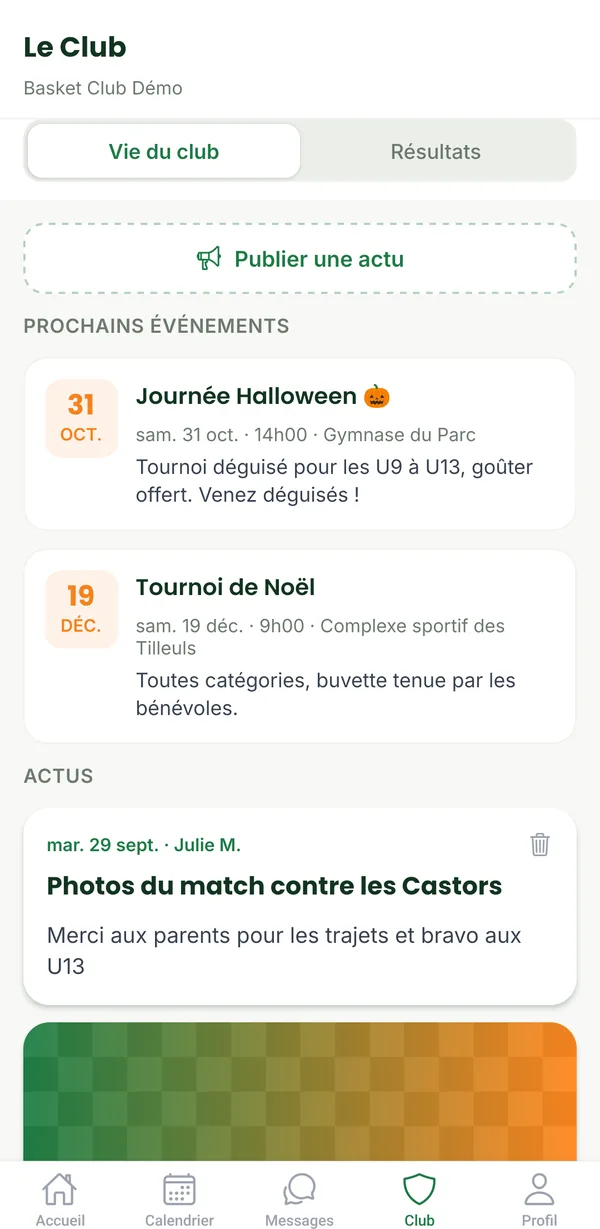
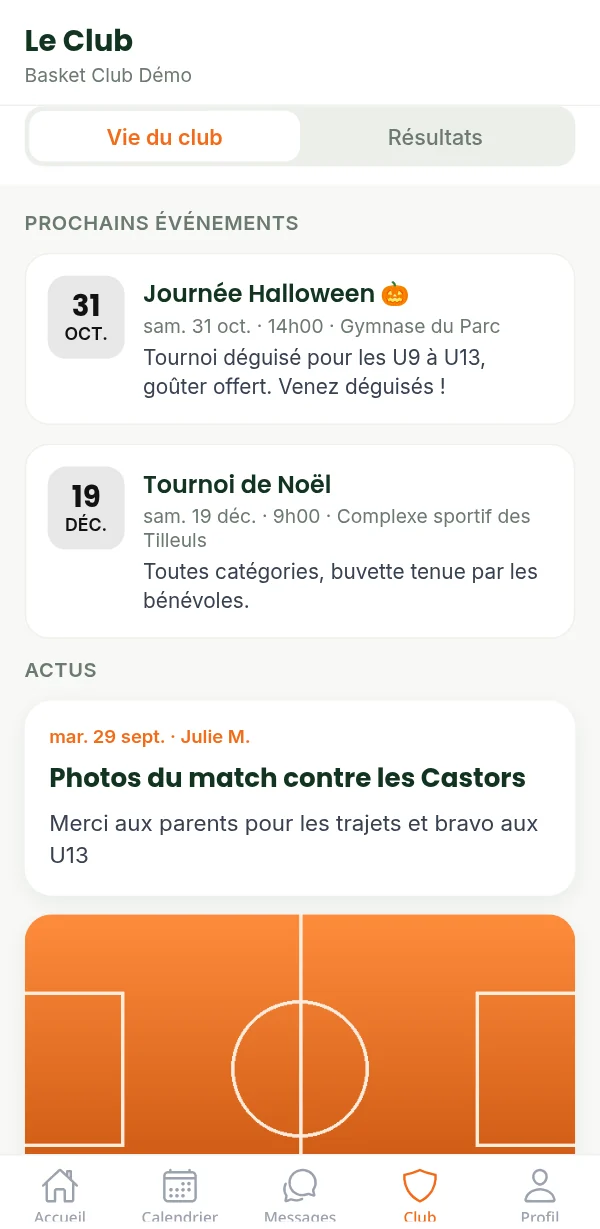
Charte orange basket : orange, noir, blanc et gris ; captures et aperçu refaits

diff --git a/index.html b/index.html
@@ -6,7 +6,7 @@
   <title>Basket&amp;cie — L'application des clubs de basket amateurs</title>
   <meta name="description" content="Convocations, présences, chat d'équipe, calendrier et actus du club dans une seule application. Gratuite pour les familles, à partir de 200 € par saison pour le club.">
   <link rel="canonical" href="https://basket-cie.fr/">
-  <meta name="theme-color" content="#1E7A44">
+  <meta name="theme-color" content="#F26B1D">
   <link rel="icon" href="assets/favicon.svg" type="image/svg+xml">
 
   <meta property="og:type" content="website">
@@ -15,7 +15,7 @@
   <meta property="og:title" content="Basket&amp;cie — L'application des clubs de basket amateurs">
   <meta property="og:description" content="Convocations en un tap, chat d'équipe, calendrier et actus du club. Gratuite pour les familles.">
   <meta property="og:url" content="https://basket-cie.fr/">
-  <meta property="og:image" content="https://basket-cie.fr/assets/og.jpg?v=2">
+  <meta property="og:image" content="https://basket-cie.fr/assets/og.jpg?v=3">
   <meta name="twitter:card" content="summary_large_image">
 
   <!-- Polices hébergées sur le site : aucune requête vers un service tiers. -->
@@ -56,20 +56,22 @@
 
   <style>
     :root {
-      --vert: #1E7A44;
-      --vert-fonce: #145C33;
-      --vert-nuit: #0E3D22;
-      --vert-clair: #E8F3EC;
-      --orange: #F5821F;
-      --orange-fonce: #C2610C;
-      --encre: #12341F;
-      --texte: #3B4A41;
-      --discret: #6B7A70;
-      --fond: #F7F8F5;
-      --bordure: #E3E7E0;
+      /* Charte Basket&cie : orange ballon, noir, blancs et gris. */
+      --orange: #F26B1D;
+      --orange-vif: #FF7A26;
+      --orange-fonce: #C4500C;
+      --orange-clair: #FFF1E7;
+      --noir: #111111;
+      --noir-doux: #1C1C1C;
+      --encre: #111111;
+      --texte: #3A3A3A;
+      --discret: #6E6E6E;
+      --fond: #FAFAF9;
+      --gris-clair: #F2F2F0;
+      --bordure: #E6E6E3;
       --blanc: #FFFFFF;
       --rayon: 20px;
-      --ombre: 0 1px 2px rgba(18, 52, 31, .06), 0 12px 32px -12px rgba(18, 52, 31, .18);
+      --ombre: 0 1px 2px rgba(17, 17, 17, .06), 0 12px 32px -12px rgba(17, 17, 17, .18);
       --largeur: 1160px;
     }
 
@@ -85,7 +87,7 @@
       -webkit-font-smoothing: antialiased;
     }
     img { max-width: 100%; display: block; }
-    a { color: var(--vert); }
+    a { color: var(--orange); }
     h1, h2, h3 { font-family: Poppins, Inter, sans-serif; color: var(--encre); line-height: 1.15; margin: 0; }
     h1 { font-size: clamp(2.3rem, 5.2vw, 3.7rem); font-weight: 800; letter-spacing: -0.012em; }
     h2 { font-size: clamp(1.9rem, 3.6vw, 2.7rem); font-weight: 800; letter-spacing: -0.01em; }
@@ -95,7 +97,7 @@
     .surtitre {
       display: inline-flex; align-items: center; gap: 8px;
       font-weight: 600; font-size: .85rem; letter-spacing: .08em; text-transform: uppercase;
-      color: var(--vert);
+      color: var(--orange);
     }
     .surtitre::before { content: ""; width: 18px; height: 2px; background: var(--orange); border-radius: 2px; }
     .section { padding: 104px 0; }
@@ -117,17 +119,18 @@
       transition: transform .15s ease, background-color .15s ease, box-shadow .15s ease;
     }
     .btn:hover { transform: translateY(-1px); }
-    .btn-orange { background: var(--orange); color: #fff; box-shadow: 0 8px 20px -8px rgba(245, 130, 31, .7); }
-    .btn-orange:hover { background: #E87410; }
+    .btn-orange { background: var(--orange); color: #fff; box-shadow: 0 8px 20px -8px rgba(242, 107, 29, .7); }
+    .btn-orange:hover { background: var(--orange-fonce); }
     .btn-contour { border-color: var(--bordure); color: var(--encre); background: var(--blanc); }
-    .btn-contour:hover { border-color: var(--vert); }
-    .btn-blanc { background: #fff; color: var(--vert-fonce); }
+    .btn-contour:hover { border-color: var(--orange); }
+    .btn-blanc { background: var(--noir); color: #fff; }
+    .btn-blanc:hover { background: var(--noir-doux); }
     .btn svg { width: 18px; height: 18px; flex: none; }
 
     /* --- En-tête ----------------------------------------------------------- */
     .entete {
       position: sticky; top: 0; z-index: 50;
-      background: rgba(247, 248, 245, .86);
+      background: rgba(250, 250, 249, .86);
       backdrop-filter: saturate(160%) blur(12px);
       -webkit-backdrop-filter: saturate(160%) blur(12px);
       border-bottom: 1px solid transparent;
@@ -140,7 +143,7 @@
     .logo b { color: var(--orange); font-weight: 800; }
     .nav { display: flex; align-items: center; gap: 32px; }
     .nav a:not(.btn) { color: var(--texte); text-decoration: none; font-weight: 500; font-size: .95rem; }
-    .nav a:not(.btn):hover { color: var(--vert); }
+    .nav a:not(.btn):hover { color: var(--orange); }
     .nav .btn { padding: 11px 18px; font-size: .92rem; }
     .menu-bouton { display: none; background: none; border: 0; padding: 8px; cursor: pointer; color: var(--encre); }
     .menu-bouton svg { width: 26px; height: 26px; }
@@ -150,33 +153,33 @@
     .heros::before {
       content: ""; position: absolute; inset: 0; z-index: -1;
       background:
-        radial-gradient(900px 500px at 85% 20%, rgba(30, 122, 68, .14), transparent 60%),
-        radial-gradient(600px 400px at 70% 90%, rgba(245, 130, 31, .10), transparent 60%);
+        radial-gradient(900px 500px at 85% 20%, rgba(242, 107, 29, .16), transparent 60%),
+        radial-gradient(600px 400px at 70% 90%, rgba(17, 17, 17, .06), transparent 60%);
     }
     .terrain { position: absolute; right: -180px; top: -60px; width: 900px; z-index: -1; opacity: .5; }
     .heros .conteneur { display: grid; grid-template-columns: 1.05fr .95fr; gap: 48px; align-items: center; }
     .heros h1 { margin: 18px 0 22px; }
     .heros h1 em {
-      font-style: normal; color: var(--vert); white-space: nowrap;
+      font-style: normal; color: var(--orange); white-space: nowrap;
       /* Surlignage orange qui suit chaque ligne si le texte passe à la ligne. */
-      background: linear-gradient(transparent 80%, rgba(245, 130, 31, .35) 80%, rgba(245, 130, 31, .35) 96%, transparent 96%);
+      background: linear-gradient(transparent 80%, rgba(242, 107, 29, .28) 80%, rgba(242, 107, 29, .28) 96%, transparent 96%);
       -webkit-box-decoration-break: clone; box-decoration-break: clone;
     }
     .heros .accroche { font-size: 1.2rem; max-width: 560px; color: var(--texte); }
     .actions { display: flex; flex-wrap: wrap; gap: 14px; margin: 34px 0 30px; }
     .preuves { display: flex; flex-wrap: wrap; gap: 10px 22px; list-style: none; padding: 0; margin: 0; font-size: .93rem; color: var(--discret); }
     .preuves li { display: inline-flex; align-items: center; gap: 8px; }
-    .preuves svg { width: 18px; height: 18px; color: var(--vert); flex: none; }
+    .preuves svg { width: 18px; height: 18px; color: var(--orange); flex: none; }
 
     .telephones { position: relative; height: 640px; }
     .telephone {
       position: absolute; width: 290px; aspect-ratio: 600 / 1229;
-      border-radius: 44px; padding: 10px; background: #0F1A14;
-      box-shadow: 0 40px 80px -30px rgba(14, 61, 34, .55), 0 0 0 1px rgba(255,255,255,.06) inset;
+      border-radius: 44px; padding: 10px; background: #111111;
+      box-shadow: 0 40px 80px -30px rgba(17, 17, 17, .5), 0 0 0 1px rgba(255,255,255,.06) inset;
     }
     .telephone::before {
       content: ""; position: absolute; top: 20px; left: 50%; transform: translateX(-50%);
-      width: 86px; height: 24px; border-radius: 20px; background: #0F1A14; z-index: 2;
+      width: 86px; height: 24px; border-radius: 20px; background: #111111; z-index: 2;
     }
     .telephone img { width: 100%; height: 100%; object-fit: cover; object-position: top; border-radius: 34px; background: #fff; padding-top: 46px; }
     .telephone.devant { right: 40px; top: 10px; z-index: 2; transform: rotate(2.5deg); }
@@ -191,14 +194,14 @@
     .bulle .pastille { width: 38px; height: 38px; border-radius: 12px; display: grid; place-items: center; flex: none; }
     .bulle .pastille svg { width: 20px; height: 20px; }
     .bulle.notif { left: -10px; top: 18px; }
-    .bulle.notif .pastille { background: var(--vert); color: #fff; }
+    .bulle.notif .pastille { background: var(--orange); color: #fff; }
     .bulle.reponse { right: 0; bottom: 36px; }
-    .bulle.reponse .pastille { background: var(--vert-clair); color: var(--vert); }
+    .bulle.reponse .pastille { background: var(--orange-clair); color: var(--orange); }
 
     /* --- Bandeau avant / après ---------------------------------------------- */
-    .bandeau { background: var(--vert-nuit); color: #CFE3D6; padding: 64px 0; }
+    .bandeau { background: var(--noir); color: #D6D6D6; padding: 64px 0; }
     .bandeau .conteneur { display: grid; grid-template-columns: repeat(3, 1fr); gap: 28px; }
-    .bandeau .avant { text-decoration: line-through; text-decoration-color: rgba(245, 130, 31, .8); color: #8FB09B; font-size: .95rem; }
+    .bandeau .avant { text-decoration: line-through; text-decoration-color: rgba(242, 107, 29, .9); color: #8C8C8C; font-size: .95rem; }
     .bandeau .apres { color: #fff; font: 600 1.15rem/1.4 Poppins, sans-serif; margin-top: 8px; }
 
     /* --- Fonctionnalités en vitrine --------------------------------------- */
@@ -207,14 +210,14 @@
     .vitrine.inverse .vitrine-visuel { order: 2; }
     .vitrine-visuel {
       position: relative; display: grid; place-items: center; padding: 48px 24px;
-      border-radius: 32px; background: linear-gradient(160deg, var(--vert-clair), #F3EADF);
+      border-radius: 32px; background: linear-gradient(160deg, var(--orange-clair), var(--gris-clair));
     }
     .vitrine-visuel .telephone { position: relative; width: 280px; transform: none; }
     .vitrine-texte h3 { font-size: clamp(1.6rem, 2.6vw, 2.1rem); font-weight: 800; letter-spacing: -0.01em; margin: 12px 0 16px; }
     .vitrine-texte > p { font-size: 1.08rem; }
     .coches { list-style: none; padding: 0; margin: 26px 0 0; display: grid; gap: 14px; }
     .coches li { display: flex; gap: 12px; align-items: flex-start; }
-    .coches svg { width: 22px; height: 22px; flex: none; margin-top: 2px; color: var(--vert); }
+    .coches svg { width: 22px; height: 22px; flex: none; margin-top: 2px; color: var(--orange); }
 
     /* --- Grille des fonctionnalités ---------------------------------------- */
     .grille { display: grid; grid-template-columns: repeat(3, 1fr); gap: 20px; }
@@ -225,7 +228,7 @@
     .carte:hover { transform: translateY(-3px); box-shadow: var(--ombre); }
     .icone {
       width: 48px; height: 48px; border-radius: 14px; display: grid; place-items: center;
-      background: var(--vert-clair); color: var(--vert); margin-bottom: 18px;
+      background: var(--orange-clair); color: var(--orange); margin-bottom: 18px;
     }
     .icone svg { width: 24px; height: 24px; }
     .carte h3 { margin-bottom: 8px; }
@@ -238,7 +241,7 @@
     .etape::before {
       counter-increment: etape; content: counter(etape);
       position: absolute; top: 0; left: 0; width: 52px; height: 52px; border-radius: 16px;
-      display: grid; place-items: center; background: var(--vert); color: #fff;
+      display: grid; place-items: center; background: var(--noir); color: var(--orange-vif);
       font: 800 1.3rem Poppins, sans-serif;
     }
     .etape:not(:last-child)::after {
@@ -249,7 +252,7 @@
     .etape p { color: var(--discret); }
     .code-exemple {
       display: inline-block; margin-top: 14px; padding: 8px 14px; border-radius: 10px;
-      background: var(--vert-clair); color: var(--vert-fonce);
+      background: var(--orange-clair); color: var(--orange-fonce);
       font: 800 1.05rem Poppins, sans-serif; letter-spacing: .12em;
     }
 
@@ -257,20 +260,20 @@
     .profils { display: grid; grid-template-columns: repeat(3, 1fr); gap: 20px; }
     .profil { border-radius: var(--rayon); padding: 32px; background: var(--blanc); border: 1px solid var(--bordure); }
     .profil .etiquette { display: inline-block; font-weight: 600; font-size: .8rem; letter-spacing: .06em; text-transform: uppercase; padding: 6px 12px; border-radius: 999px; margin-bottom: 18px; }
-    .profil:nth-child(1) .etiquette { background: #FFF1E4; color: var(--orange-fonce); }
-    .profil:nth-child(2) .etiquette { background: var(--vert-clair); color: var(--vert-fonce); }
-    .profil:nth-child(3) .etiquette { background: #E9EEF7; color: #34507A; }
+    .profil:nth-child(1) .etiquette { background: var(--orange-clair); color: var(--orange-fonce); }
+    .profil:nth-child(2) .etiquette { background: var(--noir); color: #fff; }
+    .profil:nth-child(3) .etiquette { background: var(--gris-clair); color: var(--texte); }
     .profil h3 { font-size: 1.35rem; margin-bottom: 14px; }
     .profil .coches { margin-top: 18px; gap: 10px; font-size: .97rem; }
 
     /* --- Confiance (RGPD) ---------------------------------------------------- */
-    .confiance { background: var(--vert-fonce); color: #D5E8DC; position: relative; overflow: hidden; }
+    .confiance { background: var(--noir); color: #D6D6D6; position: relative; overflow: hidden; }
     .confiance h2, .confiance h3 { color: #fff; }
-    .confiance .surtitre { color: #9FD1B2; }
-    .confiance .entete-section p { color: #B9D6C4; }
+    .confiance .surtitre { color: var(--orange-vif); }
+    .confiance .entete-section p { color: #B5B5B5; }
     .confiance .grille .carte { background: rgba(255,255,255,.06); border-color: rgba(255,255,255,.12); }
-    .confiance .grille .carte p { color: #B9D6C4; }
-    .confiance .icone { background: rgba(255,255,255,.1); color: #fff; }
+    .confiance .grille .carte p { color: #B5B5B5; }
+    .confiance .icone { background: rgba(242, 107, 29, .18); color: var(--orange-vif); }
 
     /* --- Tarifs -------------------------------------------------------------- */
     .tarifs { display: grid; grid-template-columns: repeat(3, 1fr); gap: 20px; align-items: stretch; }
@@ -278,7 +281,7 @@
       position: relative; display: flex; flex-direction: column;
       background: var(--blanc); border: 1px solid var(--bordure); border-radius: 24px; padding: 34px 30px;
     }
-    .tarif.vedette { border: 2px solid var(--vert); box-shadow: 0 30px 60px -30px rgba(30, 122, 68, .45); }
+    .tarif.vedette { border: 2px solid var(--orange); box-shadow: 0 30px 60px -30px rgba(242, 107, 29, .45); }
     .tarif .badge {
       position: absolute; top: -14px; left: 50%; transform: translateX(-50%); white-space: nowrap;
       background: var(--orange); color: #fff; font-weight: 600; font-size: .8rem; padding: 6px 14px; border-radius: 999px;
@@ -292,7 +295,7 @@
     .tarif .btn { margin-top: auto; width: 100%; }
     .tarifs-note { display: flex; flex-wrap: wrap; justify-content: center; gap: 12px 28px; margin-top: 36px; color: var(--discret); font-size: .95rem; }
     .tarifs-note span { display: inline-flex; gap: 8px; align-items: center; }
-    .tarifs-note svg { width: 18px; height: 18px; color: var(--vert); }
+    .tarifs-note svg { width: 18px; height: 18px; color: var(--orange); }
 
     /* --- FAQ ------------------------------------------------------------------- */
     .faq { max-width: 820px; margin: 0 auto; display: grid; gap: 12px; }
@@ -304,7 +307,7 @@
     .faq summary::-webkit-details-marker { display: none; }
     .faq summary::after {
       content: ""; position: absolute; right: 2px; top: 50%; width: 12px; height: 12px; margin-top: -8px;
-      border-right: 2.5px solid var(--vert); border-bottom: 2.5px solid var(--vert); transform: rotate(45deg);
+      border-right: 2.5px solid var(--orange); border-bottom: 2.5px solid var(--orange); transform: rotate(45deg);
       transition: transform .2s ease;
     }
     .faq details[open] summary::after { transform: rotate(-135deg); margin-top: -2px; }
@@ -313,7 +316,7 @@
     /* --- Appel final ------------------------------------------------------- */
     .appel {
       position: relative; overflow: hidden; border-radius: 32px; padding: 72px 48px; text-align: center;
-      background: linear-gradient(135deg, var(--vert) 0%, var(--vert-nuit) 100%); color: #D5E8DC;
+      background: linear-gradient(135deg, var(--orange-vif) 0%, var(--orange-fonce) 100%); color: #FFF3EA;
     }
     .appel h2 { color: #fff; max-width: 720px; margin: 0 auto 16px; }
     .appel p { max-width: 560px; margin: 0 auto; font-size: 1.1rem; }
@@ -325,7 +328,8 @@
     .pied .conteneur { display: flex; flex-wrap: wrap; justify-content: space-between; gap: 24px; align-items: center; }
     .pied nav { display: flex; flex-wrap: wrap; gap: 24px; }
     .pied a { color: var(--discret); text-decoration: none; }
-    .pied a:hover { color: var(--vert); }
+    .pied a:hover { color: var(--orange); }
+    .pied .logo { color: var(--encre); }
     .stores { display: flex; gap: 10px; flex-wrap: wrap; }
     .store {
       display: inline-flex; align-items: center; gap: 8px; padding: 8px 14px; border-radius: 12px;
@@ -419,7 +423,7 @@
   <main id="contenu">
     <!-- Héros -->
     <section class="heros">
-      <svg class="terrain" viewBox="0 0 900 900" fill="none" stroke="#1E7A44" stroke-width="2" aria-hidden="true">
+      <svg class="terrain" viewBox="0 0 900 900" fill="none" stroke="#F26B1D" stroke-width="2" aria-hidden="true">
         <circle cx="450" cy="450" r="120"/>
         <circle cx="450" cy="450" r="30"/>
         <path d="M450 0v900"/>
@@ -444,8 +448,8 @@
         </div>
 
         <div class="telephones" aria-hidden="true">
-          <div class="telephone derriere"><img src="assets/staff-home.webp?v=2" alt="" width="600" height="1229"></div>
-          <div class="telephone devant"><img src="assets/famille-home.webp?v=2" alt="" width="600" height="1229" fetchpriority="high"></div>
+          <div class="telephone derriere"><img src="assets/staff-home.webp?v=3" alt="" width="600" height="1229"></div>
+          <div class="telephone devant"><img src="assets/famille-home.webp?v=3" alt="" width="600" height="1229" fetchpriority="high"></div>
           <div class="bulle notif">
             <span class="pastille"><svg><use href="#i-cloche"/></svg></span>
             <span><strong>Nouvelle convocation</strong><small>Match contre Les Sangliers Basket</small></span>
@@ -487,7 +491,7 @@
 
         <article class="vitrine apparait">
           <div class="vitrine-visuel">
-            <div class="telephone"><img src="assets/famille-home.webp?v=2" alt="Accueil d'un parent : prochain match de son enfant avec boutons Présent et Absent" width="600" height="1229" loading="lazy"></div>
+            <div class="telephone"><img src="assets/famille-home.webp?v=3" alt="Accueil d'un parent : prochain match de son enfant avec boutons Présent et Absent" width="600" height="1229" loading="lazy"></div>
           </div>
           <div class="vitrine-texte">
             <span class="surtitre">Pour les familles</span>
@@ -503,7 +507,7 @@
 
         <article class="vitrine inverse apparait">
           <div class="vitrine-visuel">
-            <div class="telephone"><img src="assets/staff-home.webp?v=2" alt="Tableau de bord d'un coach : présents, absents et réponses en attente pour le prochain match" width="600" height="1229" loading="lazy"></div>
+            <div class="telephone"><img src="assets/staff-home.webp?v=3" alt="Tableau de bord d'un coach : présents, absents et réponses en attente pour le prochain match" width="600" height="1229" loading="lazy"></div>
           </div>
           <div class="vitrine-texte">
             <span class="surtitre">Pour les coachs</span>
@@ -519,7 +523,7 @@
 
         <article class="vitrine apparait">
           <div class="vitrine-visuel">
-            <div class="telephone"><img src="assets/club.webp?v=2" alt="Onglet Le Club : prochains événements comme la journée Halloween et actus du club" width="600" height="1229" loading="lazy"></div>
+            <div class="telephone"><img src="assets/club.webp?v=3" alt="Onglet Le Club : prochains événements comme la journée Halloween et actus du club" width="600" height="1229" loading="lazy"></div>
           </div>
           <div class="vitrine-texte">
             <span class="surtitre">Pour tout le club</span>

diff --git a/mentions-legales.html b/mentions-legales.html
@@ -6,11 +6,11 @@
   <title>Mentions légales — Basket&amp;cie</title>
   <meta name="description" content="Mentions légales et informations sur les données du site Basket&amp;cie.">
   <link rel="canonical" href="https://basket-cie.fr/mentions-legales.html">
-  <meta name="theme-color" content="#1E7A44">
+  <meta name="theme-color" content="#F26B1D">
   <link rel="icon" href="assets/favicon.svg" type="image/svg+xml">
   <link rel="stylesheet" href="assets/fonts.css">
   <style>
-    :root { --vert: #1E7A44; --encre: #12341F; --texte: #3B4A41; --discret: #6B7A70; --fond: #F7F8F5; --bordure: #E3E7E0; }
+    :root { --vert: #F26B1D; --encre: #111111; --texte: #3A3A3A; --discret: #6E6E6E; --fond: #FAFAF9; --bordure: #E6E6E3; }
     * { box-sizing: border-box; }
     body { margin: 0; font: 17px/1.65 Inter, system-ui, sans-serif; color: var(--texte); background: var(--fond); }
     .conteneur { max-width: 760px; margin: 0 auto; padding: 0 24px; }
@@ -18,7 +18,7 @@
     header .conteneur { height: 72px; display: flex; align-items: center; }
     .logo { display: inline-flex; align-items: center; gap: 10px; text-decoration: none; font: 800 1.25rem Poppins, sans-serif; color: var(--encre); }
     .logo img { width: 36px; height: 36px; }
-    .logo b { color: #F5821F; }
+    .logo b { color: #F26B1D; }
     main { padding: 56px 0 80px; }
     h1 { font: 800 clamp(2rem, 5vw, 2.6rem)/1.15 Poppins, sans-serif; color: var(--encre); margin: 0 0 32px; }
     h2 { font: 700 1.25rem/1.3 Poppins, sans-serif; color: var(--encre); margin: 40px 0 12px; }
